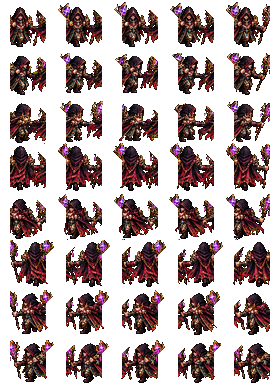
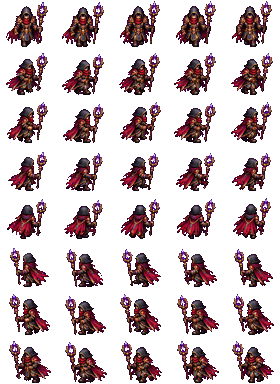
Новые листы ходьбы: Гардин, Гидеон, Ле Блан (ХД-1…3)
Плащи и посохи больше не срезаны. Нарезчик сам находит ряды и колонки,
лишние ряды пропускает, а левые направления делает зеркалом правых.

Claude-Session: https://claude.ai/code/session_01E73Aa6Ky3LhDQAqfWhqYiQ

diff --git a/tools/cut_walk.py b/tools/cut_walk.py
@@ -1,10 +1,13 @@
 """Нарезка нового листа ходьбы героя (промты ХД-1…, docs/ART_PROMPTS_11.md).
-Вход: картинка 8 рядов × 5 кадров на сплошном пурпурном фоне (#FF00FF), фигуры с отступами (не касаются соседей).
-Ряды: 0 вниз, 1 вниз-вправо, 2 вправо, 3 вверх-вправо, 4 вверх, 5 вверх-влево, 6 влево, 7 вниз-влево.
+Вход: картинка с рядами по 5 кадров на сплошном пурпурном фоне (#FF00FF), фигуры с отступами (не касаются соседей).
+Ряды и колонки ищутся сами (по пустым полосам фона), так что лишний ряд или неровная сетка не мешают.
 Выход: public/assets/heroes/<id>_sheet.png — кадры 56×48 (как сейчас), один масштаб на весь лист, ноги внизу кадра.
+Ряды игры: 0 вниз, 1 вниз-вправо, 2 вправо, 3 вверх-вправо, 4 вверх, 5 вверх-влево, 6 влево, 7 вниз-влево.
 
-python3 tools/cut_walk.py лист.png gideon            — перезаписать лист героя
-python3 tools/cut_walk.py лист.png gideon out.png    — сохранить в другой файл (проверка)
+python3 tools/cut_walk.py лист.png gideon                     — ряды картинки 1…8 = ряды игры по порядку
+python3 tools/cut_walk.py лист.png gideon --map 1,2,3,4,5     — взять ряды картинки для «вниз, вниз-вправо, вправо,
+                                                                вверх-вправо, вверх», а левые — зеркалом правых
+python3 tools/cut_walk.py лист.png gideon --map 1,2,3,4,5 --out проверка.png
 """
 import sys
 import numpy as np
@@ -12,8 +15,13 @@ from PIL import Image
 from scipy import ndimage
 
 FW, FH, ROWS, COLS = 56, 48, 8, 5
-src, hero = sys.argv[1], sys.argv[2]
-dst = sys.argv[3] if len(sys.argv) > 3 else f'public/assets/heroes/{hero}_sheet.png'
+args = sys.argv[1:]
+opt = {}
+while any(a.startswith('--') for a in args):
+    i = next(i for i, a in enumerate(args) if a.startswith('--'))
+    opt[args[i][2:]] = args[i + 1]; del args[i:i + 2]
+src, hero = args[0], args[1]
+dst = opt.get('out') or f'public/assets/heroes/{hero}_sheet.png'
 
 A = np.asarray(Image.open(src).convert('RGB')).astype(np.int32)
 H, W = A.shape[:2]
@@ -21,25 +29,59 @@ r, g, b = A[..., 0], A[..., 1], A[..., 2]
 # пурпурный фон (и его оттенки на краях): много красного и синего, мало зелёного
 bgmask = (r > 150) & (b > 150) & (g < 110) & (np.abs(r - b) < 90)
 alpha = np.where(bgmask, 0, 255).astype(np.uint8)
-# убрать пурпурный ореол на краях фигуры: у полупрозрачных краевых пикселей — снизить пурпур
+# убрать пурпурный ореол на краях фигуры
 edge = (alpha == 255) & ndimage.binary_dilation(bgmask, iterations=1) & (r > 120) & (b > 120) & (g < r - 40)
 rgb = A.astype(np.uint8).copy()
 rgb[edge, 0] = np.minimum(rgb[edge, 0], rgb[edge, 1] + 40); rgb[edge, 2] = np.minimum(rgb[edge, 2], rgb[edge, 1] + 40)
 img = np.dstack([rgb, alpha])
+fg = alpha > 0
 
-ch, cw = H / ROWS, W / COLS
+
+def bands(v, n):
+    """Полосы с фигурами вдоль оси; если их больше n — склеить самые близкие, если меньше — делить поровну."""
+    runs, s = [], None
+    for i, x in enumerate(v):
+        if x and s is None: s = i
+        if not x and s is not None: runs.append([s, i]); s = None
+    if s is not None: runs.append([s, len(v)])
+    runs = [x for x in runs if x[1] - x[0] > 6]
+    while n and len(runs) > n:
+        gaps = [runs[i + 1][0] - runs[i][1] for i in range(len(runs) - 1)]
+        i = int(np.argmin(gaps)); runs[i][1] = runs[i + 1][1]; del runs[i + 1]
+    return runs
+
+
+rb = bands(fg.sum(1) > 2, None)
+cb = bands(fg.sum(0) > 2, COLS)
+if len(cb) != COLS:
+    sys.exit(f'колонок найдено {len(cb)}, а нужно {COLS} — фигуры касаются друг друга?')
+print('рядов на картинке:', len(rb), ' колонок:', len(cb))
+# границы ячеек — посередине пустых промежутков
+def cuts(runs, size):
+    edges = [0] + [(runs[i][1] + runs[i + 1][0]) // 2 for i in range(len(runs) - 1)] + [size]
+    return list(zip(edges[:-1], edges[1:]))
+rc, cc = cuts(rb, H), cuts(cb, W)
+
+if 'map' in opt:
+    m = [int(x) - 1 for x in opt['map'].split(',')]
+    plan = [(m[0], False), (m[1], False), (m[2], False), (m[3], False), (m[4], False), (m[3], True), (m[2], True), (m[1], True)]
+else:
+    if len(rc) < ROWS: sys.exit(f'рядов {len(rc)}, нужно {ROWS} — укажите --map')
+    plan = [(i, False) for i in range(ROWS)]
+
 cells, boxes = [], []
-for ri in range(ROWS):
-    for ci in range(COLS):
-        y0, y1, x0, x1 = int(ri * ch), int((ri + 1) * ch), int(ci * cw), int((ci + 1) * cw)
-        cell = img[y0:y1, x0:x1]
+for src_row, flip in plan:
+    y0, y1 = rc[src_row]
+    for x0, x1 in cc:
+        cell = img[y0:y1, x0:x1].copy()
         m = cell[..., 3] > 0
         # самый крупный связный кусок и всё, что рядом с ним (посох, плащ), — остальное мусор
         lab, n = ndimage.label(ndimage.binary_dilation(m, iterations=3))
         if n:
             big = np.argmax(ndimage.sum(m, lab, range(1, n + 1))) + 1
             m = m & (lab == big)
-        cell = cell.copy(); cell[~m, 3] = 0
+        cell[~m, 3] = 0
+        if flip: cell = cell[:, ::-1]; m = m[:, ::-1]
         ys, xs = np.nonzero(m)
         boxes.append((ys.min(), ys.max(), xs.min(), xs.max()) if len(ys) else None)
         cells.append(cell)
@@ -50,7 +92,7 @@ out = np.zeros((ROWS * FH, COLS * FW, 4), np.uint8)
 for i, (cell, bx) in enumerate(zip(cells, boxes)):
     if not bx: continue
     y0, y1, x0, x1 = bx
-    crop = Image.fromarray(cell[y0:y1 + 1, x0:x1 + 1])
+    crop = Image.fromarray(np.ascontiguousarray(cell[y0:y1 + 1, x0:x1 + 1]))
     nw, nh = max(1, round(crop.width * k)), max(1, round(crop.height * k))
     crop = crop.resize((nw, nh), Image.LANCZOS)
     a = np.asarray(crop).copy(); a[..., 3] = np.where(a[..., 3] > 110, 255, 0)  # пиксель-арт: без полупрозрачности
